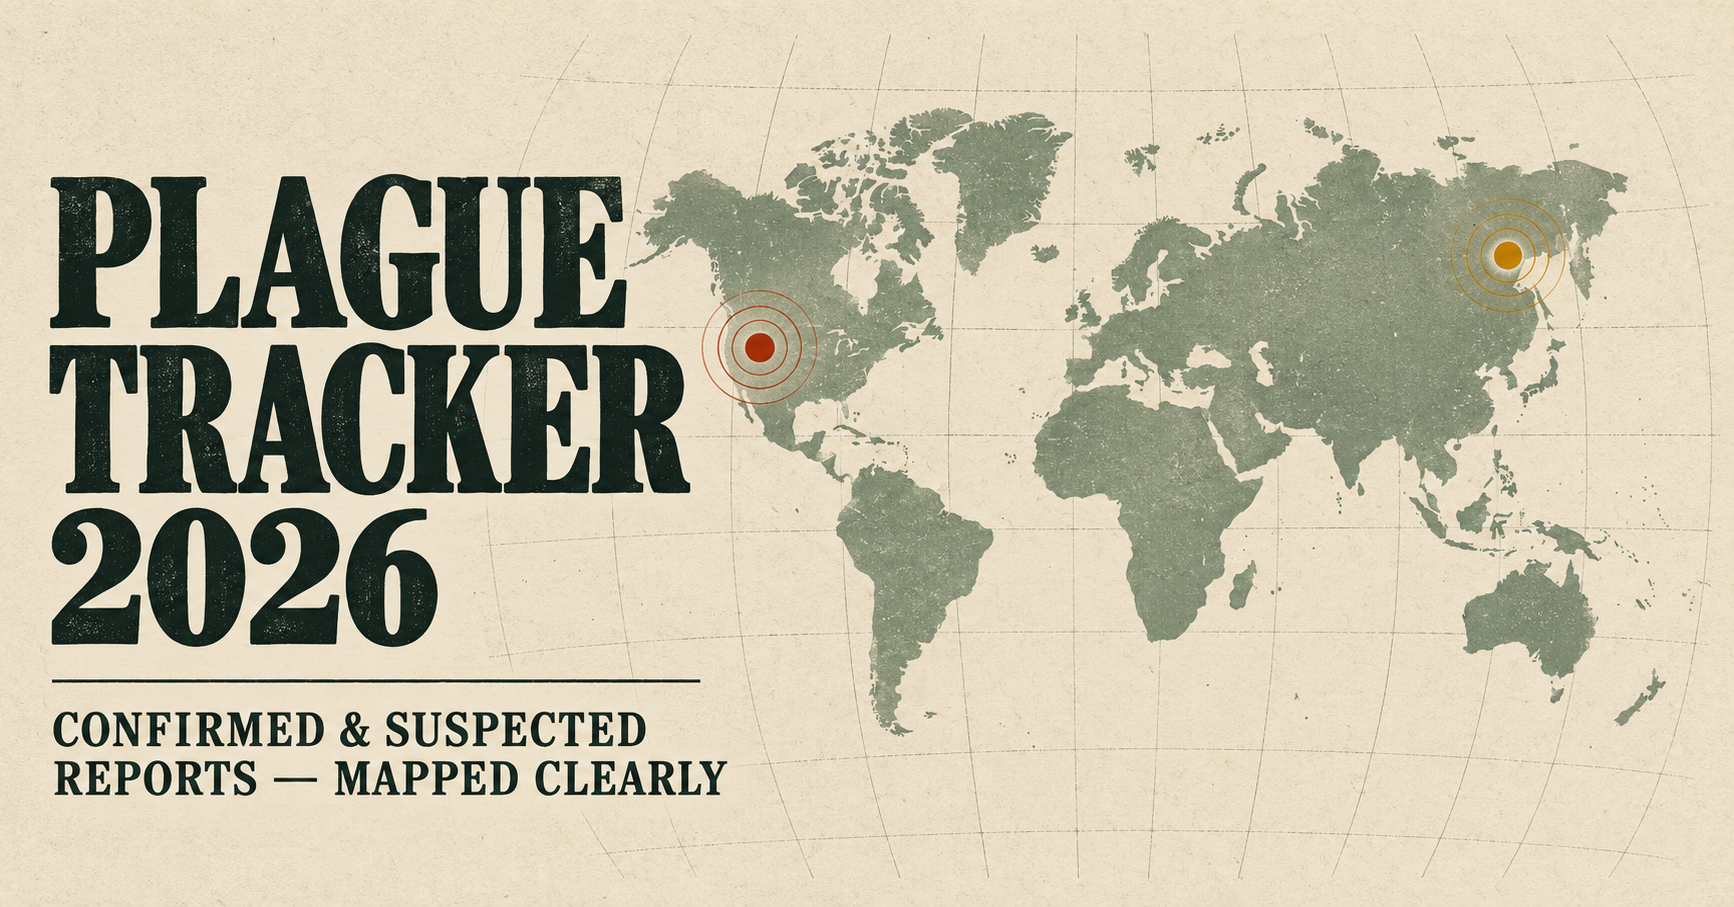
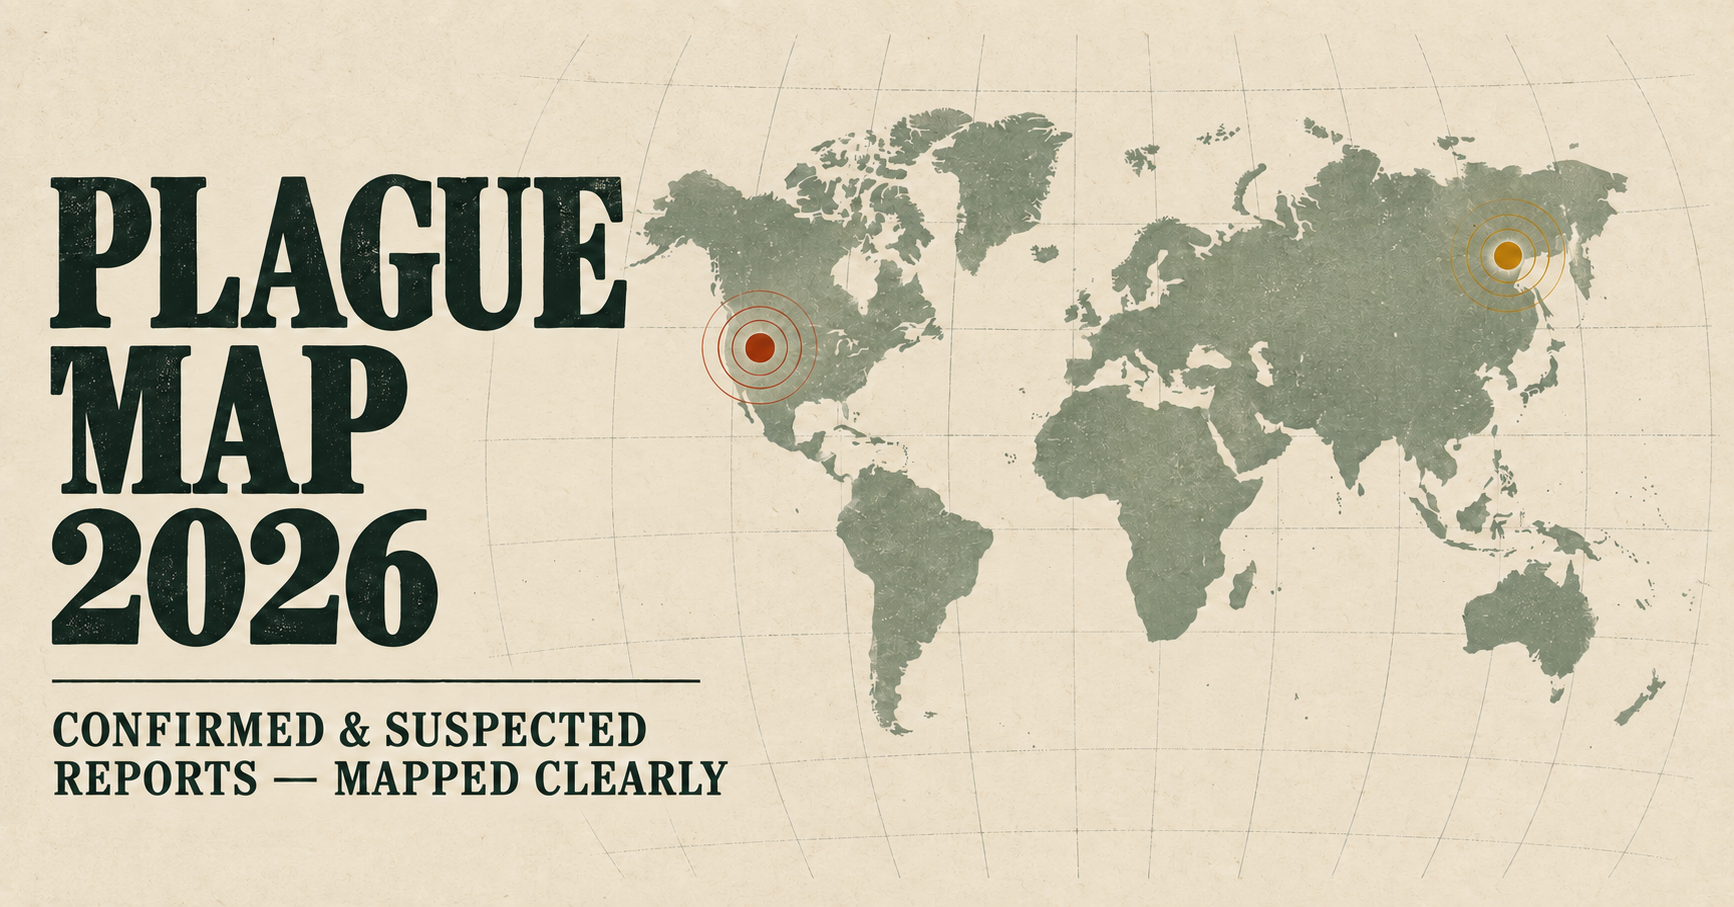
Rename site to Plague Map 2026

diff --git a/app/page.tsx b/app/page.tsx
@@ -16,7 +16,7 @@ export default function Home() {
   const [active, setActive] = useState(locations[0]);
   const [shared, setShared] = useState(false);
   async function shareTracker() {
-    const data = { title:"Plague Tracker 2026", text:"Follow confirmed and suspected plague reports worldwide.", url:window.location.href };
+    const data = { title:"Plague Map 2026", text:"Follow confirmed and suspected plague reports worldwide.", url:window.location.href };
     try {
       if (navigator.share) await navigator.share(data);
       else { await navigator.clipboard.writeText(window.location.href); setShared(true); window.setTimeout(() => setShared(false), 1800); }
@@ -25,7 +25,7 @@ export default function Home() {
   return (
     <main>
       <header className="site-header">
-        <a className="brand" href="#top" aria-label="Plague Tracker 2026 home"><span className="brand-mark" aria-hidden="true">P26</span><span>Plague Tracker <b>2026</b></span></a>
+        <a className="brand" href="#top" aria-label="Plague Map 2026 home"><span className="brand-mark" aria-hidden="true">P26</span><span>Plague Map <b>2026</b></span></a>
         <button className="share" onClick={shareTracker} type="button"><span aria-hidden="true">↗</span> {shared ? "Link copied" : "Share tracker"}</button>
       </header>
       <section className="hero" id="top">
@@ -52,7 +52,7 @@ export default function Home() {
         <div className="story-list">{stories.map((story,index) => <article className="story" key={story.url}><div className="story-number">0{index+1}</div><div className="story-body"><div className="story-meta"><b>{story.source}</b><span>{story.date}</span></div><h3>{story.title}</h3><p>{story.summary}</p><div className="story-footer"><div className="tags">{story.tags.map(tag => <span key={tag}>{tag}</span>)}</div><a href={story.url} target="_blank" rel="noreferrer">Learn more <span aria-hidden="true">↗</span></a></div></div></article>)}</div>
       </section>
       <aside className="context"><span className="context-icon" aria-hidden="true">i</span><div><h2>Keep this in context</h2><p>Plague is rare and treatable with antibiotics when caught early. This tracker summarizes public reporting and is not a public-health authority.</p></div></aside>
-      <footer><span>Plague Tracker 2026</span><p>Sources are reviewed and added manually.</p><a href="#top">Back to top ↑</a></footer>
+      <footer><span>Plague Map 2026</span><p>Sources are reviewed and added manually.</p><a href="#top">Back to top ↑</a></footer>
     </main>
   );
 }

diff --git a/app/layout.tsx b/app/layout.tsx
@@ -3,20 +3,20 @@ import "./globals.css";
 
 export const metadata: Metadata = {
   metadataBase: new URL("https://plaguemap2026.com"),
-  title: "Plague Tracker 2026",
+  title: "Plague Map 2026",
   description: "A clear, source-driven view of confirmed and suspected plague reports worldwide.",
   alternates: { canonical: "/" },
   openGraph: {
-    title: "Plague Tracker 2026",
+    title: "Plague Map 2026",
     description: "Confirmed and suspected plague reports—mapped clearly.",
     url: "/",
-    siteName: "Plague Tracker 2026",
+    siteName: "Plague Map 2026",
     type: "website",
-    images: [{ url: "/og.png", width: 1734, height: 907, alt: "Plague Tracker 2026 world report map" }],
+    images: [{ url: "/og.png", width: 1734, height: 907, alt: "Plague Map 2026 world report map" }],
   },
   twitter: {
     card: "summary_large_image",
-    title: "Plague Tracker 2026",
+    title: "Plague Map 2026",
     description: "Confirmed and suspected plague reports—mapped clearly.",
     images: ["/og.png"],
   },
